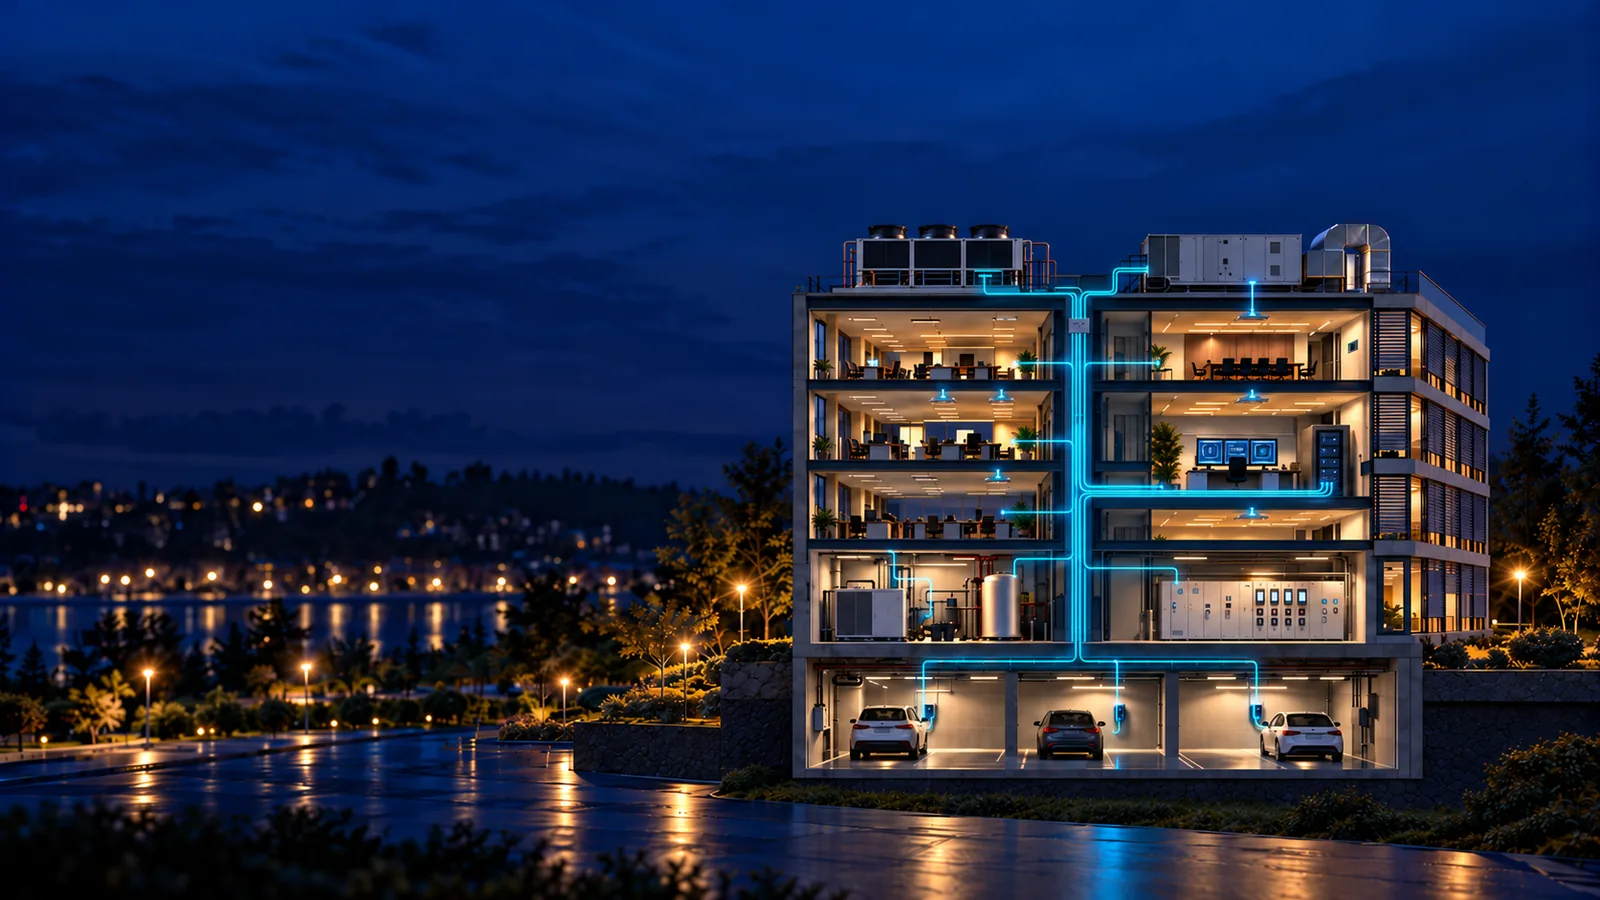
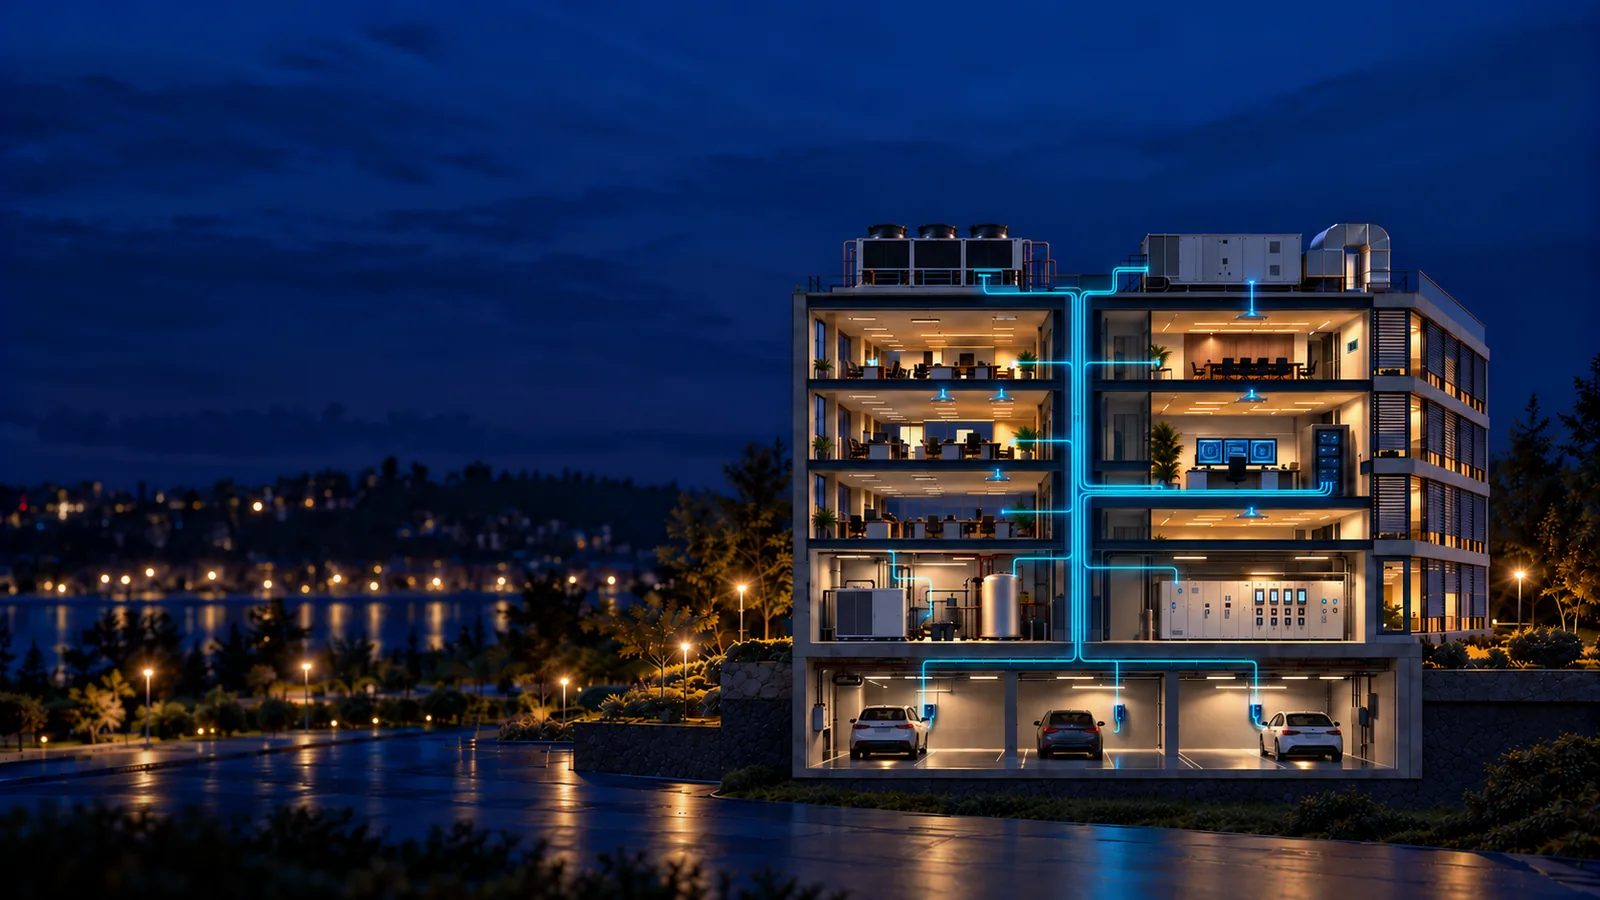
Start: Gebäudegrafik aktualisiert, Beschriftungen an Lampe und Sonnenschutz

diff --git a/index.html b/index.html
@@ -15,7 +15,7 @@
 	<meta property="og:title" content="Ingenieurbüro für Gebäudeautomation in München | Buchholz GmbH">
 	<meta property="og:description" content="Seit über 25 Jahren spezialisiert auf Gebäudeautomation. Herstellerneutral, für öffentliche und private Auftraggeber.">
 	<meta property="og:url" content="https://www.ib-buchholz.de/">
-	<meta property="og:image" content="https://www.ib-buchholz.de/assets/images/hero-gebaeude-1600x900.webp?v=2">
+	<meta property="og:image" content="https://www.ib-buchholz.de/assets/images/hero-gebaeude-1600x900.webp?v=3">
 
 	<link rel="icon" href="favicon.ico" sizes="48x48">
 	<link rel="icon" href="favicon.svg" type="image/svg+xml">
@@ -23,7 +23,7 @@
 	<link rel="manifest" href="site.webmanifest">
 
 	<link rel="preload" href="assets/fonts/readex-pro-latin.woff2" as="font" type="font/woff2" crossorigin>
-	<link rel="preload" href="assets/images/hero-gebaeude-1600x900.webp?v=2" as="image" imagesrcset="assets/images/hero-gebaeude-960x540.webp?v=2 960w, assets/images/hero-gebaeude-1600x900.webp?v=2 1600w" imagesizes="100vw">
+	<link rel="preload" href="assets/images/hero-gebaeude-1600x900.webp?v=3" as="image" imagesrcset="assets/images/hero-gebaeude-960x540.webp?v=3 960w, assets/images/hero-gebaeude-1600x900.webp?v=3 1600w" imagesizes="100vw">
 	<link rel="stylesheet" href="assets/styles/main.css?v=20261028c">
 	<script src="assets/scripts/main.js?v=20261028c" defer></script>
 
@@ -95,8 +95,8 @@
 		<section class="hero" aria-labelledby="hero-titel">
 			<div class="hero__visual">
 				<picture>
-					<img src="assets/images/hero-gebaeude-1600x900.webp?v=2"
-						srcset="assets/images/hero-gebaeude-960x540.webp?v=2 960w, assets/images/hero-gebaeude-1600x900.webp?v=2 1600w"
+					<img src="assets/images/hero-gebaeude-1600x900.webp?v=3"
+						srcset="assets/images/hero-gebaeude-960x540.webp?v=3 960w, assets/images/hero-gebaeude-1600x900.webp?v=3 1600w"
 						sizes="(min-width: 64rem) 120vh, 100vw"
 						width="1600" height="900" alt="Bürogebäude im Schnitt mit Tiefgarage: Eine Leitzentrale mit Arbeitsplatz und Serverschrank ist über leuchtende Leitungen mit Kälte, Lüftung, Heizung, Elektroverteilung, Ladesäulen und allen Etagen verbunden" fetchpriority="high">
 				</picture>
@@ -104,8 +104,8 @@
 					<li class="datapoint" style="--x: 58.5%; --y: 26.5%; --i: 0">Kältetechnik</li>
 					<li class="datapoint" style="--x: 76%; --y: 28%; --i: 1">Raumlufttechnik</li>
 					<li class="datapoint" style="--x: 77.5%; --y: 39%; --i: 2">Raumautomation</li>
-					<li class="datapoint datapoint--flip" style="--x: 90.1%; --y: 61%; --i: 3">Beschattung / Sonnenschutz</li>
-					<li class="datapoint" style="--x: 62.7%; --y: 57.6%; --i: 4">Beleuchtungssteuerung</li>
+					<li class="datapoint datapoint--flip" style="--x: 87%; --y: 55.5%; --i: 3">Beschattung / Sonnenschutz</li>
+					<li class="datapoint" style="--x: 62.5%; --y: 44%; --i: 4">Beleuchtungssteuerung</li>
 					<li class="datapoint datapoint--flip" style="--x: 53.5%; --y: 69%; --i: 5">Heiztechnik</li>
 					<li class="datapoint datapoint--flip" style="--x: 75.3%; --y: 50.3%; --i: 6">Management- und Bedieneinrichtung</li>
 					<li class="datapoint" style="--x: 77.5%; --y: 69%; --i: 7">Energiezählung</li>
